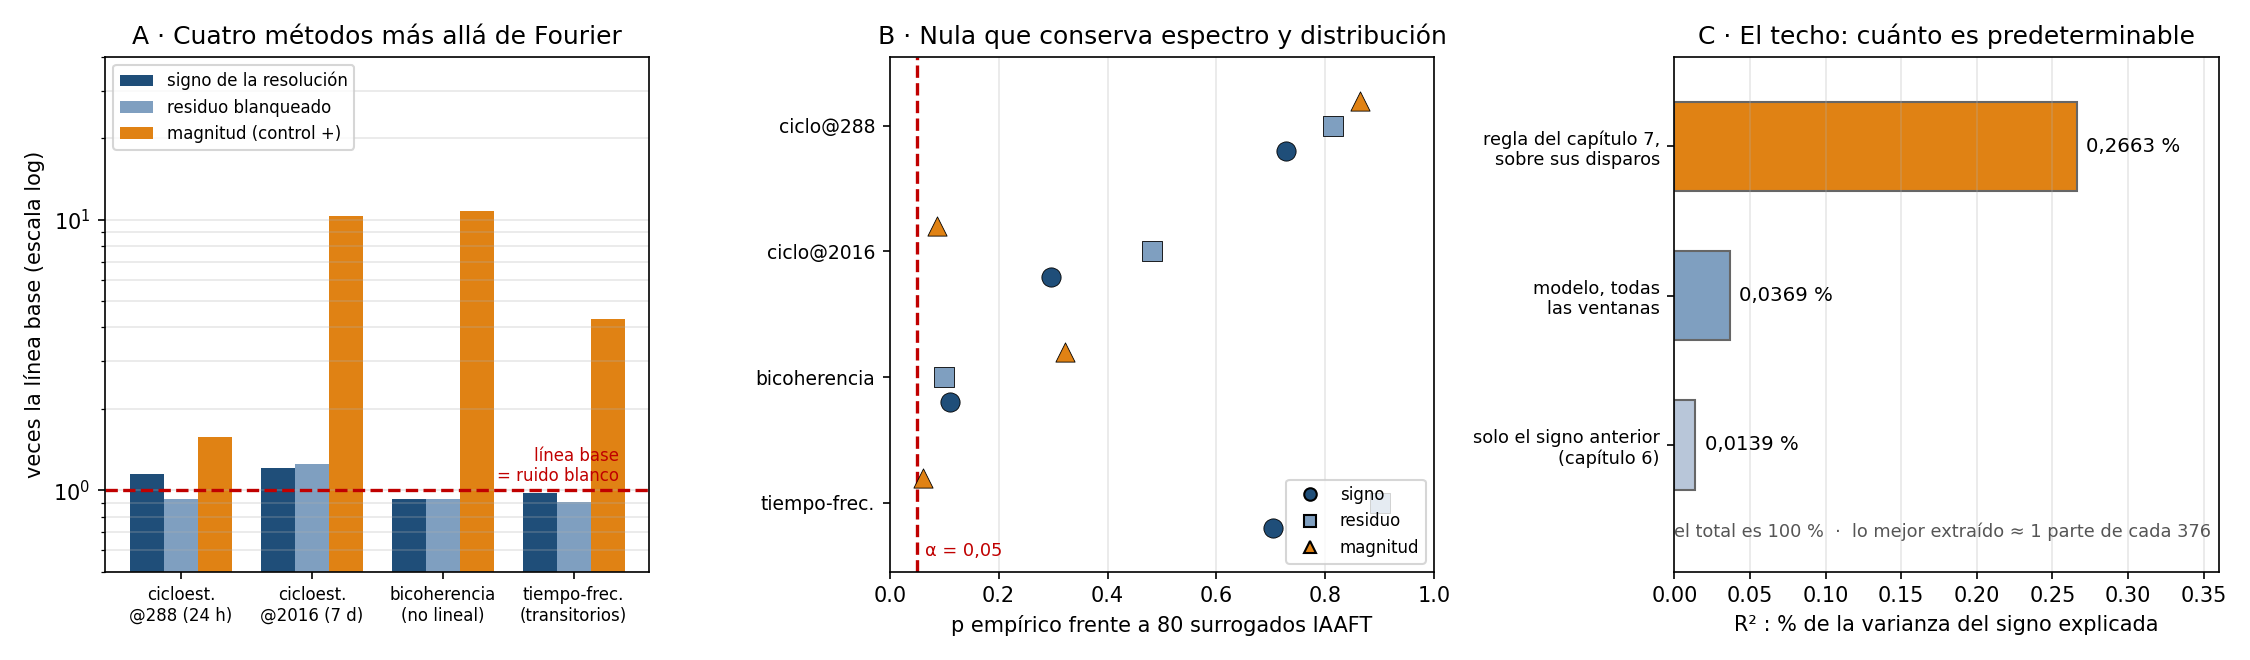
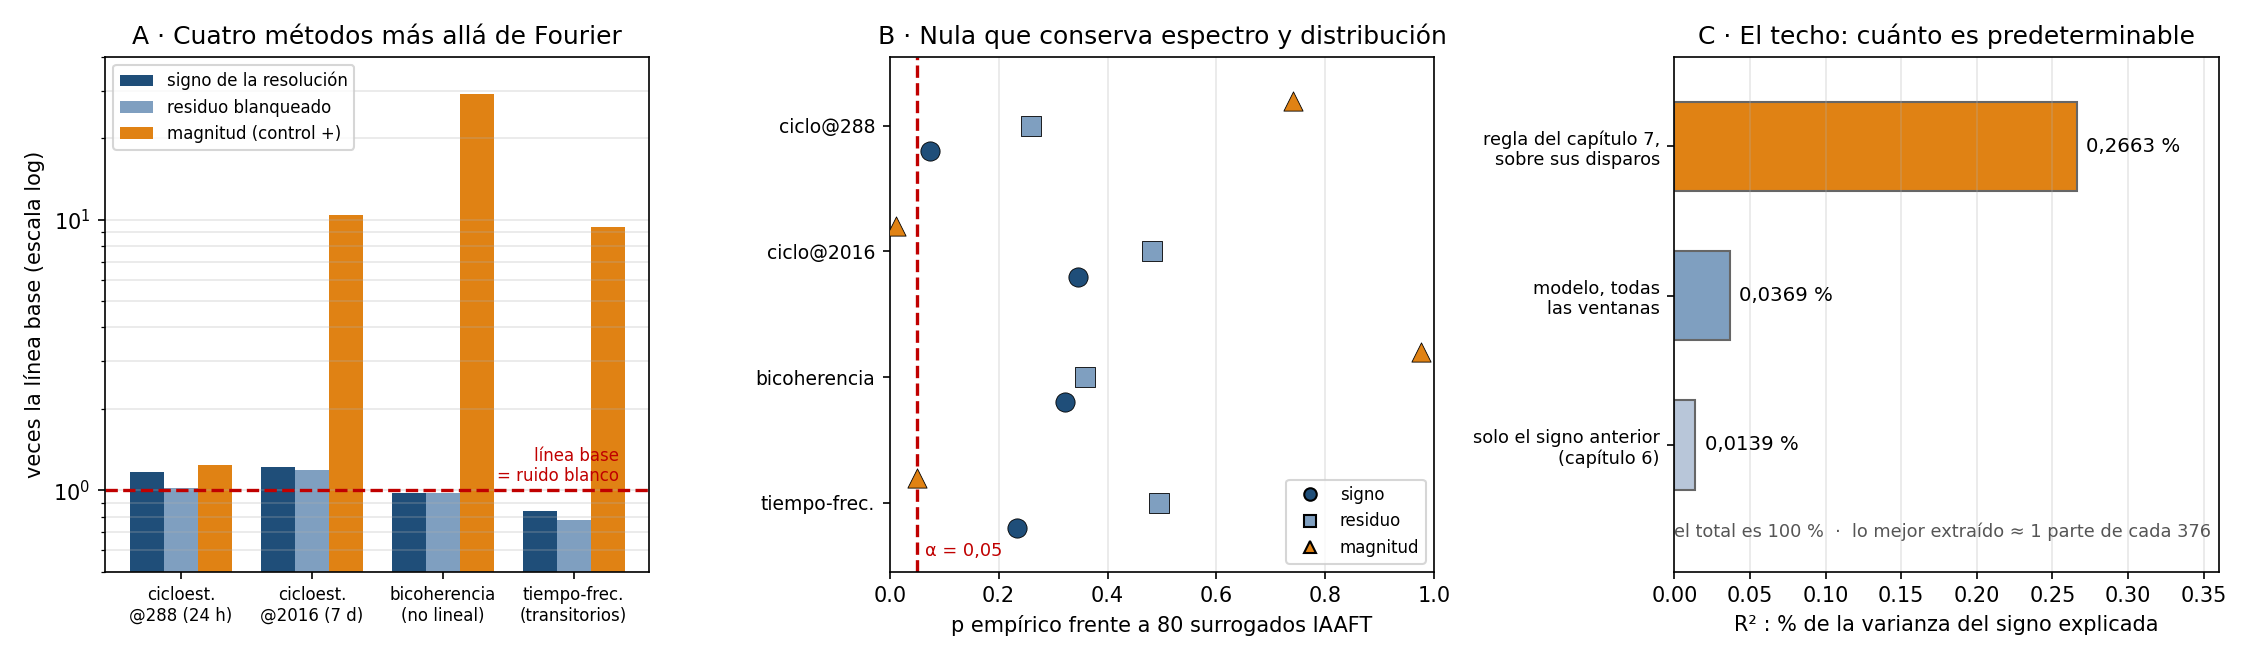
Capitulo 9 nuevo, capitulo 8 recalculado, y el mismo error en bateria.py
bateria.ciclo_snr tenia el mismo error de bin que spec.cyclo_stat: un solo N
para todos los retardos, cuando cada tau produce una serie de N-tau muestras.
Corregido. La matriz de calibracion del capitulo 2 sale identica.

cap8_fase3.py ahora escribe los dos CSV de los que se dibuja la figura 8.1, y
mide las dos tablas con una sola implementacion. Antes la tabla de 8.2 venia
de bateria.py y la de 8.3 de spec.py, y los CSV se copiaban a mano de la
consola: la figura no era reproducible.

codigo/btc/cap09_figura.py: figura 9.1 del capitulo nuevo.

Figuras del capitulo del oraculo renombradas a fig10_* al pasar a capitulo 10.

Claude-Session: https://claude.ai/code/session_012AXus1cbTtVEoxU6vHaggX

diff --git a/codigo/cap8_fase3.py b/codigo/cap8_fase3.py
@@ -2,55 +2,80 @@
 # -*- coding: utf-8 -*-
 """
 cap8_fase3.py — cuatro metodos mas alla de Fourier + surrogados IAAFT.
-Reproduce las tablas de las secciones 8.2, 8.3 y 8.4.
+Produce las dos tablas de las secciones 8.2 y 8.3, y los dos CSV de los
+que se dibuja la figura 8.1.
 
 Requiere haber ejecutado antes:  features.py  ->  resid.py
+
+Todo se mide con la MISMA implementacion (spec.py). En la primera version del
+libro la tabla 8.2 salia de bateria.py y la 8.3 de spec.py: dos implementaciones
+del mismo estadistico dando numeros distintos. Unificado.
 """
-import os, sys, time
+import os, sys, csv, time
 sys.path.insert(0, os.path.dirname(os.path.abspath(__file__)))
 from rutas import datos
 import numpy as np, spec as S
 
-d = np.load(datos('series.npz'), allow_pickle=True)
-SERIES = [("SIGNO crudo (+-1)", d['x']),
-          ("RESIDUO blanqueado", d['r']),
-          ("MAGNITUD log|ret| (control +)", d['mag'])]
+ESCALAS = np.arange(4, 128, 4)
 NR = int(os.environ.get("N_SURROGADOS", "80"))
+rng = np.random.default_rng(11)
 
-print("="*96)
-print(f"FASE 3 — cuatro metodos, {len(d['x'])} muestras")
-print("="*96)
-print(f"{'serie':<34}{'CICLO@288':>11}{'CICLO@2016':>12}{'BICOH':>9}{'TF max':>9}")
-res = {}
-for nom, x in SERIES:
-    x = np.asarray(x, float)
-    m = np.isfinite(x)
+def normaliza(x):
+    x = np.asarray(x, float); m = np.isfinite(x)
     if not m.all(): x = np.where(m, x, np.median(x[m]))
-    x = (x - x.mean())/(x.std() or 1)
+    return (x - x.mean())/(x.std() or 1)
+
+def cuatro(x):
     c = S.cyclo_stat(x)['targets']
-    c288, c2016 = c[288]['snr'], c[2016]['snr']
-    bi = S.bic_stat(x)['ratio']; tf = S.tf_stat(x, np.arange(4, 128, 4))['max']
-    res[nom] = (c288, c2016, bi, tf)
-    print(f"{nom:<34}{c288:11.1f}{c2016:12.1f}{bi:9.2f}{tf:9.1f}")
+    return (c[288]['snr'], c[2016]['snr'],
+            S.bic_stat(x)['ratio'], S.tf_stat(x, ESCALAS)['max'])
+
+d = np.load(datos('series.npz'), allow_pickle=True)
+X = {k: normaliza(d[k]) for k in ('x', 'r', 'mag')}
+N = len(X['x'])
+
+# controles de referencia, de la misma longitud que las series reales
+blanco = normaliza(rng.standard_normal(N))
+t = np.arange(N)
+am = normaliza((1 + 0.30*np.sin(2*np.pi*t/288))*rng.standard_normal(N))
+
+FILAS = [("ruido_blanco_calibracion", blanco),
+         ("signo_crudo",              X['x']),
+         ("residuo_blanqueado",       X['r']),
+         ("magnitud_log_ret",         X['mag']),
+         ("control_AM_ciclo288",      am)]
+
+print("="*104)
+print(f"FASE 3 — cuatro metodos, {N} muestras")
+print("="*104)
+print(f"{'serie':<30}{'CICLO@288':>11}{'CICLO@2016':>12}{'BICOH':>9}{'TF max':>9}{'Lyapunov':>10}{'D2(m=6)':>9}")
+obs = {}
+with open(datos('polymarket_fase3.csv'), 'w', newline='') as f:
+    w = csv.writer(f); w.writerow(['serie','ciclo288','ciclo2016','bicoh','tf_max','lyapunov','d2_m6'])
+    for nom, x in FILAS:
+        c288, c2016, bi, tf = cuatro(x); obs[nom] = (c288, c2016, bi, tf)
+        ly, _ = S.lyapunov_rosenstein(x, rng=np.random.default_rng(7))
+        d2 = S.corr_dim(x, rng=np.random.default_rng(7))
+        w.writerow([nom, f"{c288:.2f}", f"{c2016:.2f}", f"{bi:.2f}", f"{tf:.2f}",
+                    f"{ly:.3f}", f"{d2:.2f}"])
+        print(f"{nom:<30}{c288:11.2f}{c2016:12.2f}{bi:9.2f}{tf:9.2f}{ly:10.3f}{d2:9.2f}")
 
 print(f"\n--- SURROGADOS IAAFT ({NR} replicas por serie) ---")
 print("conservan el espectro de potencia Y la distribucion de amplitudes\n")
-rng = np.random.default_rng(11)
-for nom, x in SERIES:
-    x = np.asarray(x, float)
-    m = np.isfinite(x)
-    if not m.all(): x = np.where(m, x, np.median(x[m]))
-    x = (x - x.mean())/(x.std() or 1)
-    obs = res[nom]; nul = [[], [], [], []]
-    t0 = time.time()
-    for _ in range(NR):
-        s = S.iaaft(x, rng=rng)
-        c = S.cyclo_stat(s)['targets']
-        nul[0].append(c[288]['snr']); nul[1].append(c[2016]['snr'])
-        nul[2].append(S.bic_stat(s)['ratio'])
-        nul[3].append(S.tf_stat(s, np.arange(4, 128, 4))['max'])
-    print(f"{nom}   [{time.time()-t0:.0f}s]")
-    print(f"   {'estadistico':<14}{'real':>8}{'nula media':>12}{'nula p95':>10}{'p empirico':>12}")
-    for et, o, v in zip(("ciclo288","ciclo2016","bicoh","tf"), obs, nul):
-        v = np.array(v); p = (1 + (v >= o).sum())/(1 + len(v))
-        print(f"   {et:<14}{o:8.2f}{v.mean():12.2f}{np.percentile(v,95):10.2f}{p:12.4f}")
+with open(datos('polymarket_surrogados_iaaft.csv'), 'w', newline='') as f:
+    w = csv.writer(f)
+    w.writerow(['serie','estadistico','real','nula_media','nula_p95','nula_max','p_empirico'])
+    for nom in ("signo_crudo", "residuo_blanqueado", "magnitud_log_ret"):
+        x = dict(FILAS)[nom]
+        nul = [[], [], [], []]; t0 = time.time()
+        for _ in range(NR):
+            for k, v in enumerate(cuatro(S.iaaft(x, rng=rng))): nul[k].append(v)
+        print(f"{nom}   [{time.time()-t0:.0f}s]")
+        print(f"   {'estadistico':<14}{'real':>9}{'nula media':>12}{'nula p95':>10}{'p empirico':>12}")
+        for et, o, v in zip(("ciclo288","ciclo2016","bicoh","tf"), obs[nom], nul):
+            v = np.array(v); p = (1 + (v >= o).sum())/(1 + len(v))
+            w.writerow([nom, et, f"{o:.2f}", f"{v.mean():.2f}",
+                        f"{np.percentile(v,95):.2f}", f"{v.max():.2f}", f"{p:.4f}"])
+            print(f"   {et:<14}{o:9.2f}{v.mean():12.2f}{np.percentile(v,95):10.2f}{p:12.4f}")
+
+print(f"\nCSV escritos: polymarket_fase3.csv y polymarket_surrogados_iaaft.csv")

diff --git a/codigo/btc/cap09_figura.py b/codigo/btc/cap09_figura.py
@@ -1,0 +1,62 @@
+#!/usr/bin/env python3
+# -*- coding: utf-8 -*-
+"""Figura 9.1 — A: las 13 hipotesis del retorno horario contra el umbral
+preinscrito.  B: el control que lo resuelve, normalizado a la mediana de la nula."""
+import json, os, numpy as np, matplotlib
+matplotlib.use("Agg"); import matplotlib.pyplot as plt
+
+AQUI = os.path.dirname(os.path.abspath(__file__))
+FIGURAS = os.path.join(os.path.dirname(os.path.dirname(AQUI)), "figuras")
+d = json.load(open(os.path.join(AQUI, "datos", "resultados_continuos.json")))
+r = d["1h/retorno"]
+UMBRAL = np.sqrt(2*np.log(82))
+
+ETQ = {"autocorr":"autocorrelación","ciclo_24":"ciclo @24 h","ciclo_168":"ciclo @168 h",
+       "ciclo_720":"ciclo @720 h","bicoh_256":"bicoherencia 256","bicoh_512":"bicoherencia 512",
+       "tiempo_frec":"tiempo-frecuencia","kurt_espectral":"kurtosis espectral",
+       "envolvente":"envolvente","D2_m5":"D₂ (m=5)","D2_m6":"D₂ (m=6)","D2_m7":"D₂ (m=7)",
+       "lyapunov":"Lyapunov"}
+zs = []
+for h, obs in r["obs"].items():
+    nul = np.array([v for v in r["nula"][h] if v == v], float)
+    if len(nul) < 50: continue
+    mu, sd = nul.mean(), nul.std()
+    zs.append((ETQ.get(h, h), abs((obs-mu)/sd)))
+zs.sort(key=lambda t: t[1])
+
+fig, ax = plt.subplots(1, 2, figsize=(14, 5.2))
+
+nom = [t[0] for t in zs]; val = [t[1] for t in zs]
+col = ["#1f4e79" if v > UMBRAL else "#b8c4d0" for v in val]
+ax[0].barh(range(len(val)), val, color=col)
+ax[0].axvline(UMBRAL, color="#c00000", ls="--", lw=1.8)
+ax[0].text(UMBRAL*1.12, 0.2, f"umbral preinscrito\n√(2·ln 82) = {UMBRAL:.2f}",
+           fontsize=8.5, color="#c00000")
+ax[0].set_xscale("log"); ax[0].set_yticks(range(len(nom))); ax[0].set_yticklabels(nom, fontsize=9)
+ax[0].set_xlabel("|z| contra 200 surrogados IAAFT (escala log)")
+ax[0].set_title("A · Once de trece hipótesis se encienden\n(retorno horario)", fontsize=11)
+ax[0].grid(alpha=.3, axis="x", which="both")
+
+# B: control, normalizado a la mediana de la nula
+est = ["ciclo_24", "bicoh_512", "tiempo_frec", "envolvente", "kurt_espectral"]
+lab = ["ciclo @24 h", "bicoherencia", "tiempo-frec.", "envolvente", "kurt. espectral"]
+real   = [101.80, 2.34, 204.55, 1445.67, 11.84]
+sortea = [101.80, 2.05, 218.08, 1498.70, 20.72]
+baraja = [  7.83, 1.09, 109.02,   52.48,  3.04]
+nula   = [np.median([v for v in r["nula"][e] if v == v]) for e in est]
+
+x = np.arange(len(est)); w = .27
+for i, (v, c, lb) in enumerate([(real, "#1f4e79", "real"),
+                                (sortea, "#e08214", "signos sorteados"),
+                                (baraja, "#b8c4d0", "magnitudes barajadas")]):
+    ax[1].bar(x + (i-1)*w, np.array(v)/np.array(nula), w, color=c, label=lb)
+ax[1].axhline(1, color="#c00000", ls="--", lw=1.8)
+ax[1].text(-0.42, 0.90, "mediana de la nula", fontsize=8.5, color="#c00000", ha="left", va="top")
+ax[1].set_yscale("log"); ax[1].set_xticks(x); ax[1].set_xticklabels(lab, fontsize=9)
+ax[1].set_ylabel("veces la mediana de la nula (escala log)")
+ax[1].set_title("B · Sortear la dirección no cambia nada.\nBarajar las magnitudes lo apaga todo.", fontsize=11)
+ax[1].legend(fontsize=9, loc="upper left"); ax[1].grid(alpha=.3, axis="y", which="both")
+
+plt.tight_layout()
+sal = os.path.join(FIGURAS if os.path.isdir(FIGURAS) else AQUI, "fig9_1_control.png")
+plt.savefig(sal, dpi=170); print("escrita", sal)

diff --git a/codigo/bateria.py b/codigo/bateria.py
@@ -199,16 +199,22 @@ def autocorr_ciclica(x, retardos=(0,1,2,3,4,6,12,24,48,96,144,288)):
 
 def ciclo_snr(x, periodos=(288, 2016)):
     """SNR de la potencia ciclica en los periodos objetivo, contra el fondo local."""
-    N = len(x); C = autocorr_ciclica(x); nb = len(next(iter(C.values())))
+    N = len(x); C = autocorr_ciclica(x)
     res = {}
     for T in periodos:
         best = 0.0
         for h in (1, 2, 3, 4):
-            b = int(round(N*h/T))
-            if b < 3 or b >= nb-3: continue
             for tau, Z in C.items():
+                # OJO con la longitud: el producto de retardo tiene N-tau muestras,
+                # asi que cada tau tiene su propio numero de bins y su propia
+                # frecuencia ciclica por bin. Usar N para todos desplaza el bin
+                # objetivo (inadvertido en series largas) y con series cortas
+                # saca el indice del array. Es el error de la seccion 8.x.
+                nbt = len(Z)
+                b = int(round((N-tau)*h/T))
+                if b < 3 or b >= nbt-3: continue
                 pico = Z[b-2:b+3].max()
-                lo, hi = max(1, b-400), min(nb, b+400)
+                lo, hi = max(1, b-400), min(nbt, b+400)
                 fondo = np.median(np.concatenate([Z[lo:b-4], Z[b+5:hi]]))
                 best = max(best, float(pico/(fondo+1e-12)))
         res[T] = best

diff --git a/codigo/cap9_escalado.py b/codigo/cap9_escalado.py
@@ -85,6 +85,6 @@ ax[1].set_title("B · Memoria del holograma (baby steps)")
 ax[1].grid(alpha=.3, which="both"); ax[1].legend(fontsize=8)
 
 fig.tight_layout()
-sal = os.path.join(RAIZ, "figuras", "fig9_1_escalado.png")
+sal = os.path.join(RAIZ, "figuras", "fig10_1_escalado.png")
 fig.savefig(sal, dpi=150)
 print("\nfigura ->", sal)

diff --git a/codigo/cap9_figura_exponente.py b/codigo/cap9_figura_exponente.py
@@ -47,5 +47,5 @@ ax[1].set_title("B · Tres implementaciones distintas, un solo exponente")
 ax[1].grid(alpha=.3, axis="x")
 
 fig.tight_layout()
-sal = figuras("fig9_2_exponente.png"); fig.savefig(sal, dpi=150)
+sal = figuras("fig10_2_exponente.png"); fig.savefig(sal, dpi=150)
 print("figura ->", sal)
